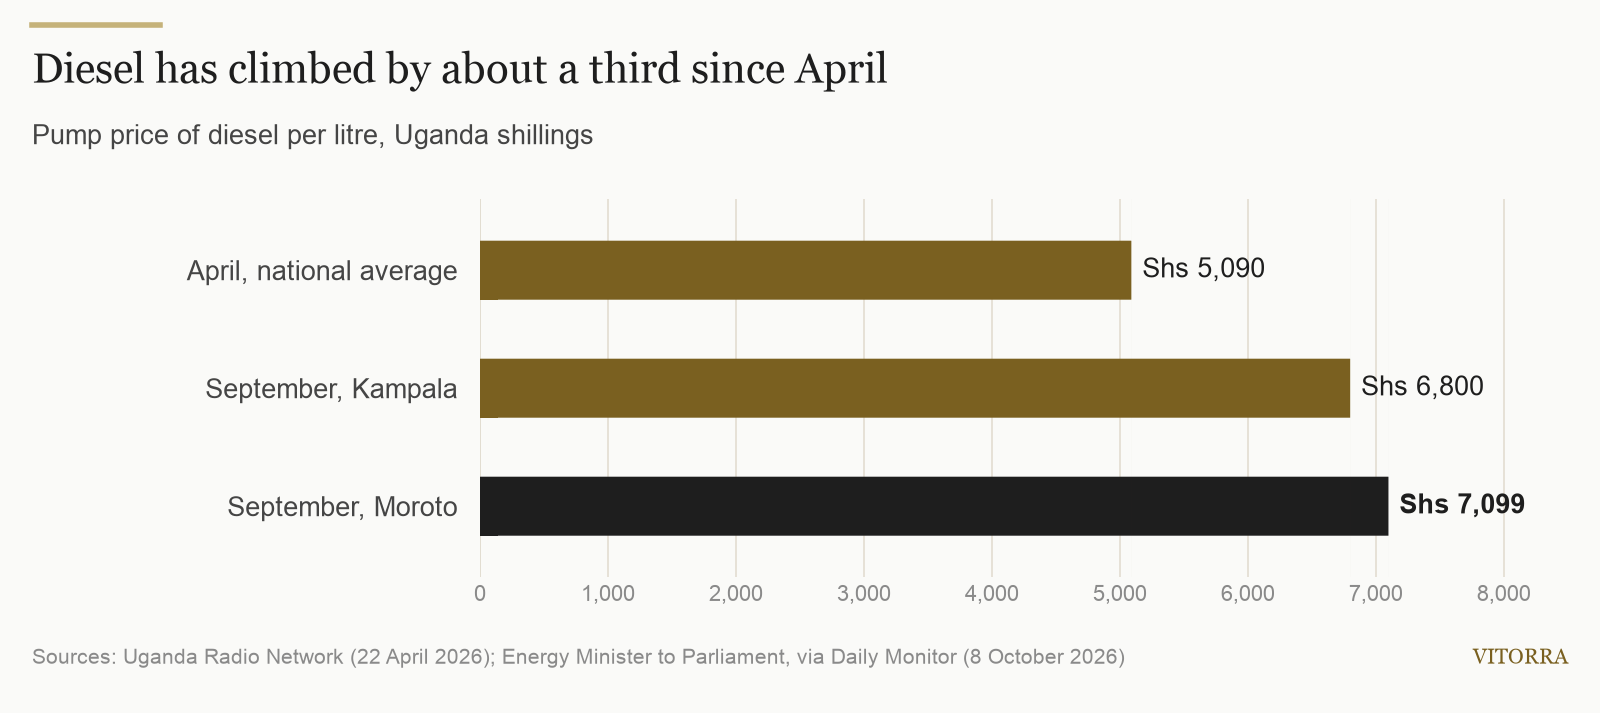
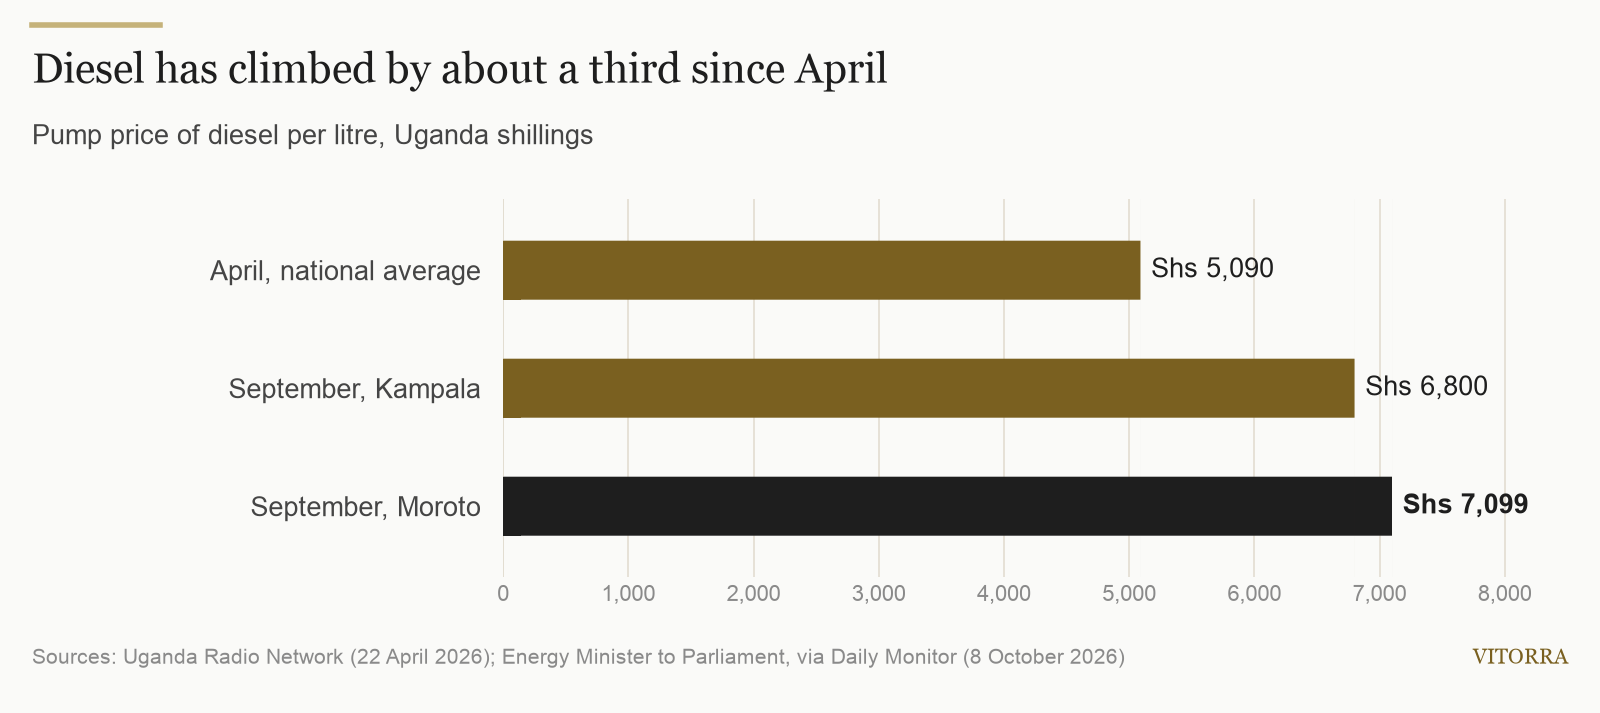
Blog: coffee (EUDR) and FET (fuel costs and cleaner air) drafts, photo routine
Two new hand-written drafts with charts and credited Wikimedia Commons
photos, uploaded as drafts #7 and #8. /blog-post now covers freely licensed
photos and their credit lines; blog_chart.py wraps long labels.

diff --git a/scripts/blog_chart.py b/scripts/blog_chart.py
@@ -23,6 +23,7 @@ Needs matplotlib: python3 -m venv scripts/.venv && scripts/.venv/bin/pip install
 """
 import json
 import sys
+import textwrap
 from pathlib import Path
 
 import matplotlib
@@ -50,7 +51,9 @@ SERIF = "Georgia" if Path("/System/Library/Fonts/Supplemental/Georgia.ttf").exis
 def draw(spec: dict) -> Path:
     bars = spec["bars"]
     fmt = spec.get("format", "{:,.0f}")
-    labels = [b["label"] for b in bars][::-1]
+    # Long labels wrap onto two lines; the left margin then fits the longest line.
+    labels = [textwrap.fill(b["label"], 24) for b in bars][::-1]
+    longest = max(len(line) for lbl in labels for line in lbl.split("\n"))
     values = [b["value"] for b in bars][::-1]
     colours = [INK if b.get("highlight") else BAR for b in bars][::-1]
 
@@ -91,7 +94,7 @@ def draw(spec: dict) -> Path:
         fig.text(0.02, 0.28 / fig_h, spec["source"], fontsize=9.5, color=MUTED, family=SANS, ha="left", va="bottom")
     fig.text(0.98, 0.28 / fig_h, "VITORRA", fontsize=9.5, color=BAR, family=SERIF, ha="right", va="bottom")
 
-    fig.subplots_adjust(left=0.3, right=0.97, top=1 - 1.25 / fig_h, bottom=0.85 / fig_h)
+    fig.subplots_adjust(left=min(0.42, 0.05 + 0.0115 * longest), right=0.97, top=1 - 1.25 / fig_h, bottom=0.85 / fig_h)
 
     out = Path(spec["output"])
     out.parent.mkdir(parents=True, exist_ok=True)

diff --git a/planning/blog/drafts/2026-10-27-eu-deforestation-rules-uganda-coffee-30-december.md b/planning/blog/drafts/2026-10-27-eu-deforestation-rules-uganda-coffee-30-december.md
@@ -1,0 +1,69 @@
+TITLE: EU deforestation rules start on 30 December: what Ugandan coffee exporters and buyers need ready
+SLUG: eu-deforestation-rules-uganda-coffee-30-december
+EXCERPT: Europe takes most of Uganda's coffee, and from 30 December 2026 every bag sold there must be shown to be deforestation-free. Here is what the rules ask for, where Uganda's trade stands, and what to do in the next nine weeks.
+COVER IMAGE: images/2026-10-27-coffee-farm.jpg
+SEO TITLE: EUDR and Uganda Coffee: What to Have Ready by 30 December
+SEO DESCRIPTION: The EU deforestation regulation applies to coffee from 30 December 2026. What Ugandan exporters and buyers must have ready, and why it matters.
+TOPIC: coffee
+---
+In nine weeks, the rules for selling coffee into Europe change. From 30 December 2026, the European Union's deforestation regulation, usually called the EUDR, applies to coffee. Any coffee placed on the EU market from that date must be shown to be deforestation-free and produced in line with the laws of the country where it was grown.
+
+For Uganda this is not a side issue. Europe took 63% of the country's coffee shipments in August, according to the Ministry of Agriculture's monthly report. Italy alone took a quarter, and Germany almost a tenth.
+
+![Bar chart: share of Uganda's coffee exports in August 2026: Europe 63% in total, Italy 25.2%, Sudan 15.2%, Germany 9.9%, India 5.7%](images/2026-10-27-coffee-destinations.png)
+
+## The date is now fixed
+
+The EUDR has been postponed twice. In December 2025 the EU adopted an amended text, Regulation (EU) 2025/2650, which gave companies one more year. In its May 2026 report to the European Parliament and Council, the European Commission confirmed that the regulation enters into application on 30 December 2026 for all companies except most micro and small operators, which have until 30 June 2027.
+
+Coffee buyers in Europe are not planning for another delay, and Ugandan exporters should not either.
+
+## What the rules ask for
+
+The regulation covers seven commodities, coffee among them. To sell coffee in the EU, the company that first places it on the market must file a due diligence statement in the EU's information system. Under the amended text, that obligation sits with the first operator; buyers further down the chain keep the reference number of that original statement.
+
+In practice, the European importer files the statement, but it can only do so with information that starts at origin: where the coffee was grown, evidence that the land was not deforested, and evidence that it was produced legally. That information has to travel with each lot from the farm to the port.
+
+The scope may also widen. The Commission has proposed adding soluble (instant) coffee to the products covered, so processed coffee would need the same evidence as green beans.
+
+![Freshly picked coffee cherries in a sack in Uganda](images/2026-10-27-coffee-cherries.jpg)
+*Photo: Denis Kasozi, [CC BY-SA 4.0](https://creativecommons.org/licenses/by-sa/4.0/), via [Wikimedia Commons](https://commons.wikimedia.org/wiki/File:Harvested_Ugandan_coffee_1.jpg)*
+
+## Where Uganda's coffee trade stands
+
+The timing comes as shipments ease after an exceptional year. Uganda exported 737,766 bags of 60 kg in August, down 13.6% from 853,543 bags a year earlier, and worth $181.7 million. Agriculture Minister Frank Tumwebaze attributed lower output to drought and high temperatures in parts of Greater Masaka, Kyotera, Sembabule and Luwero. The ministry expects about 700,000 bags in September, against 839,801 in September 2025.
+
+![Bar chart: Uganda's coffee exports: 854,000 bags in August 2025, 738,000 in August 2026, 840,000 in September 2025 and a forecast 700,000 in September 2026](images/2026-10-27-coffee-exports.png)
+
+Prices have cushioned the fall. The average export price rose to $4.1 a kilogram in August. Robusta made up 92% of the volume, while Arabica fetched $6.0 a kilogram on average, and Mt Elgon grades reached $7.9. The International Coffee Organization described the decline as a likely return to normal after a record 2024/25 year of 8.26 million bags. Over the 12 months to August, Uganda exported 8.1 million bags worth $2.1 billion.
+
+With volumes tighter, European buyers will favour supply they can document. A lot that arrives without the evidence an importer needs is a lot that importer cannot sell in the EU.
+
+## What to have ready before 30 December
+
+For exporters and their suppliers:
+
+1. **Know where every lot comes from.** Record the location of the farms behind each consignment, and keep that record with the lot.
+2. **Keep documented coffee separate.** Coffee that can be traced to mapped farms loses its value if it is mixed with coffee that cannot.
+3. **Gather legality evidence now.** Land, trade and export records take time to collect; do not leave them until the shipping window.
+4. **Ask your buyers what they need.** Importers file the statement, so agree the data format and how it will be handed over before the next contract is signed.
+5. **Check contracts that run past 30 December.** Shipments arriving after that date fall under the new rules, whenever they were sold.
+
+For international buyers of Ugandan coffee, the question to put to every supplier is simple: can you give us the farm locations and legality evidence for this lot, in the form our importer needs?
+
+That is how we approach [Vitorra Coffee](/products/coffee), our Ugandan Arabica for export buyers. If you are sourcing for the EU market, [tell us what documentation your importer requires](/enquire?sector=COFFEE) and we will confirm what we can provide for each lot.
+
+## What to watch
+
+- **The Commission's information system,** which is being updated in stages ahead of the deadline.
+- **The soluble coffee proposal,** and the date any new products would be covered from.
+- **September's export figures,** which will show whether the drought-hit harvest holds near the 700,000-bag forecast.
+
+## Sources
+
+- [European Commission: Report to the Council and Parliament on the EUDR (4 May 2026)](https://environment.ec.europa.eu/document/download/a3c5c3a0-232e-43c4-b0b8-1eecb1df45c7_en?filename=Report+from+the+Commission+to+the+Council+and+Parliament+on+the+EUDR.pdf)
+- [European Commission, Access2Markets: Delay until December 2026 and other developments in the implementation of the EUDR (28 January 2026)](https://trade.ec.europa.eu/access-to-markets/en/news/delay-until-december-2026-and-other-developments-implementation-eudr-regulation)
+- [EU Green Forum: Deforestation regulation implementation](https://green-forum.ec.europa.eu/nature-and-biodiversity/deforestation-regulation-implementation_en)
+- [Uganda Business News: Firmer prices cushion fall in Uganda's August coffee exports (1 October 2026)](https://ugbusiness.com/2026/10/economy/commodities/firmer-prices-cushion-fall-in-ugandas-august-coffee-exports)
+
+*Cover photo: Kateregga1, [CC BY-SA 4.0](https://creativecommons.org/licenses/by-sa/4.0/), via [Wikimedia Commons](https://commons.wikimedia.org/wiki/File:Coffee_and_banana_plantation_in_Uganda.jpg)*

diff --git a/planning/blog/drafts/2026-10-27-every-litre-counts-twice-fuel-costs-cleaner-vehicles-uganda.md b/planning/blog/drafts/2026-10-27-every-litre-counts-twice-fuel-costs-cleaner-vehicles-uganda.md
@@ -1,0 +1,55 @@
+TITLE: Every litre now counts twice: fuel costs, cleaner air and Uganda's transport operators
+SLUG: every-litre-counts-twice-fuel-costs-cleaner-vehicles-uganda
+EXCERPT: Operators upcountry are parking vehicles because fares no longer cover fuel, while NEMA says transport causes up to 60% of Uganda's air pollution. Why the two pressures point the same way, and what fleet owners can do now.
+COVER IMAGE: images/2026-10-27-kampala-taxi-park.jpg
+SEO TITLE: Fuel Costs and Cleaner Air: What Uganda's Transport Operators Can Do
+SEO DESCRIPTION: Fares lag fuel prices and NEMA plans vehicle emission testing. Why burning less fuel answers both, and practical steps for Ugandan fleet owners.
+TOPIC: fet
+---
+In Lwengo this month, some vehicle owners have simply stopped driving. Visiting the district's fuel stations on 14 October, the Nile Post found diesel selling at between Shs6,950 and Shs7,119 a litre. Local operators told the paper that more owners were parking their vehicles because they could no longer cover their daily costs, and some drivers were buying fuel in small amounts or suspending work altogether.
+
+The problem is the gap between what fuel costs and what customers will pay. Taxi operator Umar Mawanda said that at current fuel prices the fare from Lwengo to Kampala should be Shs30,000, but passengers pay Shs20,000. Farmers and traders feel it too: as transport owners pass on fuel costs, they are left with less money after moving their goods.
+
+![Bar chart: Lwengo to Kampala taxi fare: passengers pay Shs20,000, while operators say fuel prices require Shs30,000](images/2026-10-27-taxi-fare-gap.png)
+
+## The second pressure: cleaner air
+
+At the same time, Uganda's environment regulator is turning its attention to vehicles. In September, the executive director of the National Environment Management Authority (NEMA), Barirega Akankwasah, said that "up to 60% of our air pollution is accounted for by transport", with vehicles, motorcycles and dust from unpaved roads the main sources. Industry, by comparison, accounts for about 11%.
+
+![Bar chart: share of Uganda's air pollution by source: transport up to 60%, industry 11%, other sources including cooking, waste and biomass burning 29%](images/2026-10-27-air-pollution.png)
+
+The rules already exist on paper: the National Environment (Air Quality Standards) Regulations, 2024. NEMA's challenge, he said, is now putting them into practice. The government plans vehicle emission testing and the adoption of Euro 4 emission standards, and NEMA is strengthening enforcement through inspections and a new Environment Protection Force. No start date for vehicle testing has been announced, but the direction is clear.
+
+![Evening traffic on a road in Kampala](images/2026-10-27-kampala-traffic.jpg)
+*Photo: Kyakwera, [CC BY-SA 4.0](https://creativecommons.org/licenses/by-sa/4.0/), via [Wikimedia Commons](https://commons.wikimedia.org/wiki/File:Evening_traffic_jam_setting_in_on_Kampala_road_01.jpg)*
+
+## Why the two pressures point the same way
+
+For a fleet owner, these look like separate problems: one about money, one about regulation. They share a root. A vehicle that burns less fuel to do the same work costs less to run and puts less exhaust into the air.
+
+That is why the same habits answer both. An engine with a clogged air filter or neglected injectors wastes fuel and runs dirtier. A vehicle left idling at a stage or a client's gate burns fuel and pollutes without earning anything. A truck running half-empty does the same.
+
+## What operators can do now
+
+1. **Measure each vehicle.** Record litres and the odometer reading at every fill-up, and work out litres per 100 km. You cannot manage a cost you cannot see, and the vehicles using the most fuel are the first place to look.
+2. **Service the engine, not just the paperwork.** On dusty roads, air filters clog quickly. Keep filters and injectors in condition and keep the service records: if vehicle testing arrives, a documented maintenance history will help.
+3. **Stop paying for idling.** Agree a simple rule for switching off during long stops, and check it against your fuel log.
+4. **Fill the vehicle, not the road.** Combine half-loads and plan return trips, so each litre earns as much as possible.
+5. **Price for today's fuel.** Where you can, agree fares and contract rates that reflect current pump prices rather than last year's.
+
+Our [practical guide to reducing fleet fuel costs](/blog/how-to-reduce-fleet-fuel-costs-uganda) covers each of these in more detail.
+
+Once you are measuring, you can also judge fuel-saving technology on your own numbers. [Fuel Eco Tech](/products/fuel-eco-tech) is a device fitted to the fuel line without modifying the engine. In an independent field test in Germany, a Volkswagen T5 van went from 11.52 to 9.92 litres per 100 km, a 13.9% reduction. Because one vehicle is not your fleet, we offer a [free fuel assessment](/enquire?sector=FET) that measures your own vehicles before and after fitting.
+
+## What to watch
+
+- **Vehicle emission testing:** when it starts, which vehicles it covers first, and what the limits are.
+- **Euro 4 standards:** how they are applied to new and imported vehicles.
+- **Fares and fuel:** whether fares catch up with pump prices, or more operators upcountry park their vehicles.
+
+## Sources
+
+- [Nile Post, via AllAfrica: Fuel prices force Lwengo transport operators to park vehicles as farmers count losses (14 October 2026)](https://allafrica.com/stories/202610150068.html)
+- [Nile Post, via AllAfrica: NEMA says transport sector accounts for 60% of air pollution (7 September 2026)](https://allafrica.com/stories/202609080064.html)
+
+*Cover photo: Deepak-nsk, [CC0](https://creativecommons.org/publicdomain/zero/1.0/), via [Wikimedia Commons](https://commons.wikimedia.org/wiki/File:Kampala_old_taxi_park.jpg)*

diff --git a/.claude/skills/blog-post/SKILL.md b/.claude/skills/blog-post/SKILL.md
@@ -50,6 +50,8 @@ Write a spec next to the draft as `planning/blog/drafts/images/YYYY-MM-DD-<name>
 scripts/.venv/bin/python scripts/blog_chart.py planning/blog/drafts/images/<spec>.json
 ```
 
+**Photos (1–2, plus optionally the cover):** use freely licensed photos that fit the story — Wikimedia Commons is the default (search with the API, `generator=search&gsrnamespace=6&prop=imageinfo&iiextmetadatafilter=LicenseShortName|Artist`, with a User-Agent naming support@vitorra.org). Only CC0, CC BY or CC BY-SA. Download a 1600–1920px copy (`iiurlwidth`), look at it, resize to ≤1600px JPEG into `planning/blog/drafts/images/`, and never hotlink. Avoid identifiable faces where you can. Under each in-article photo put a credit line: `*Photo: <Artist>, [<licence>](<licence url>), via [Wikimedia Commons](<file page>)*`; for a local cover (`COVER IMAGE: images/<file>.jpg`, uploaded with the draft) add `*Cover photo: …*` as the last line of the content. Note the cover's source in the log.
+
 Look at the PNG (Read it) for clipped or colliding labels before using it. Use millions ("Shs 18m", subtitle "million shillings") for large amounts. Put each chart in the content where it supports the text: `![Bar chart: <what it shows, with the numbers>](images/<name>.png)` — the alt text describes the chart for screen readers and Google.
 
 ## 5. Hand over

diff --git a/planning/blog/LOG.md b/planning/blog/LOG.md
@@ -6,3 +6,5 @@ The four October launch articles and the June FET launch post were seeded before
 | Date | Topic | Title | Cover |
 |------|-------|-------|-------|
 | 2026-10-27 | fet | Diesel near Shs7,000 a litre: what it means for your fleet, and what to do now | /products/fet/field-truck.jpg |
+| 2026-10-27 | coffee | EU deforestation rules start on 30 December: what Ugandan coffee exporters and buyers need ready | Wikimedia: Coffee and banana plantation in Uganda (Kateregga1, CC BY-SA 4.0) |
+| 2026-10-27 | fet | Every litre now counts twice: fuel costs, cleaner air and Uganda's transport operators | Wikimedia: Kampala old taxi park (Deepak-nsk, CC0) |
